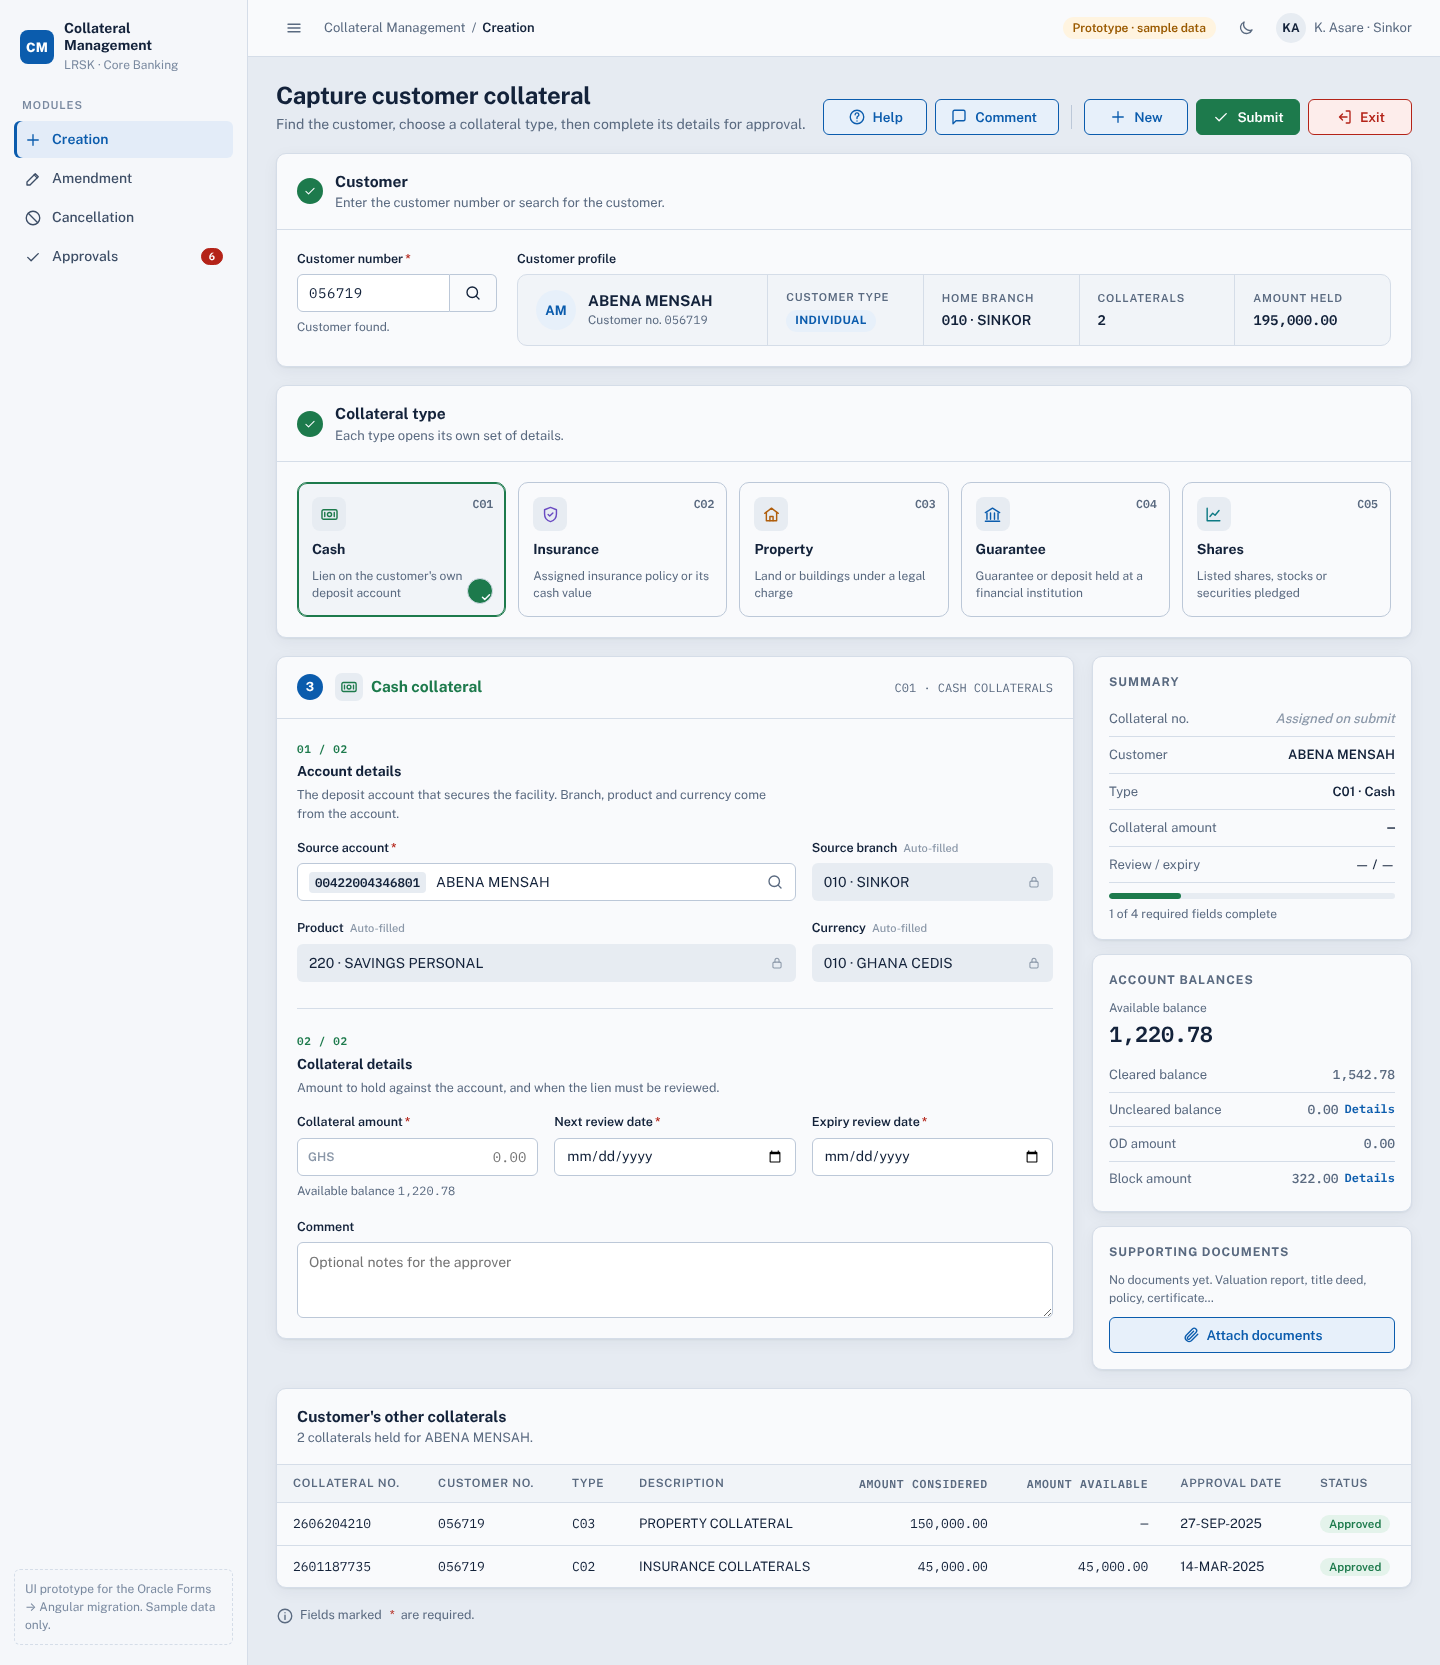
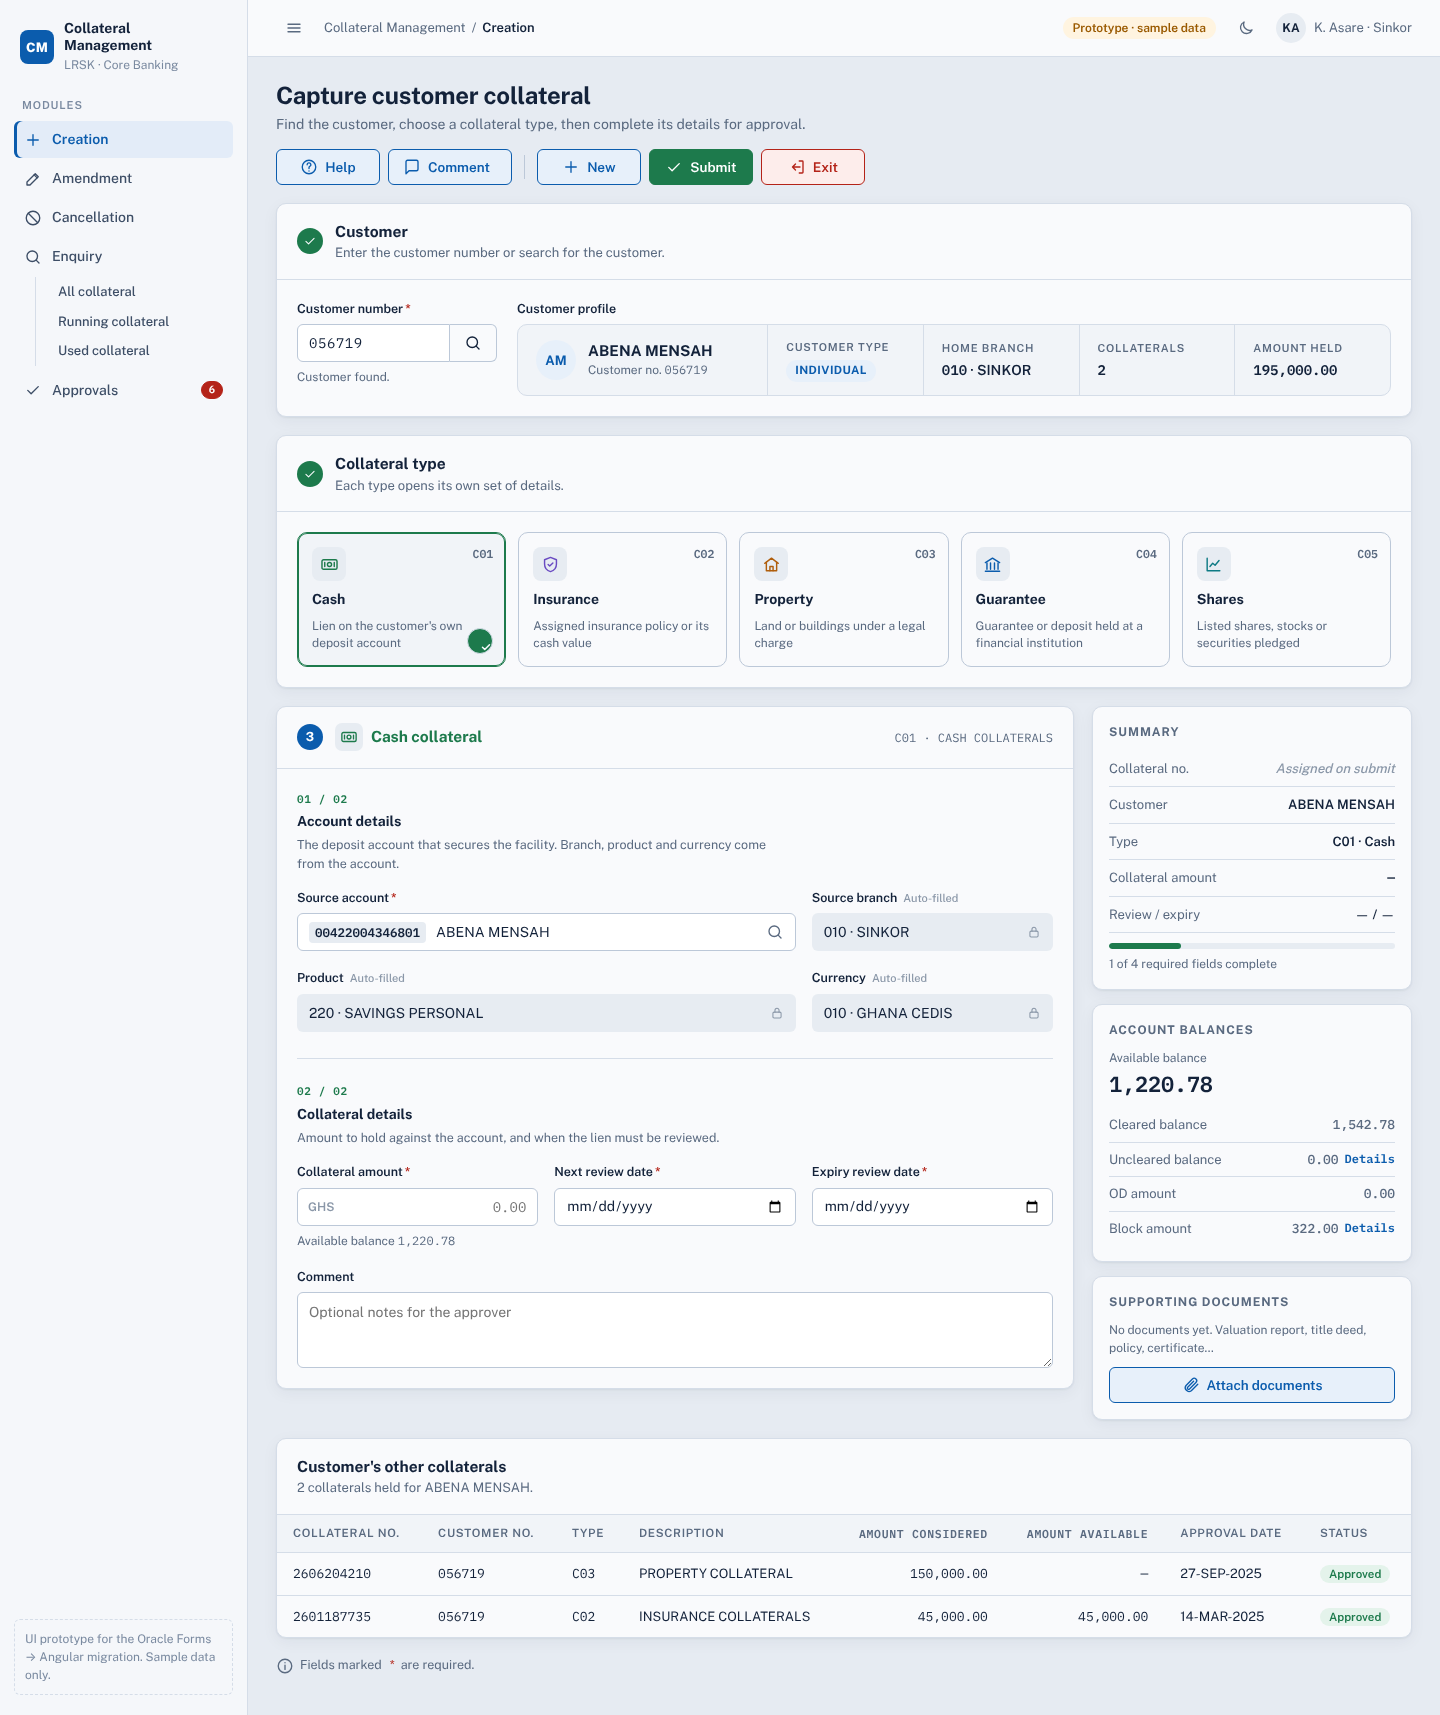
Action bar always left under the title; shorter enquiry search
- Page header stacks title then action bar, left-aligned on every
  screen, so the buttons never move
- Enquiry quick search capped at 360px with a shorter placeholder
- Design system updated; screenshots being retaken

Claude-Session: https://claude.ai/code/session_011ztbXXXbWQFsQty3k2T7VW

diff --git a/design/prototype/index.html b/design/prototype/index.html
@@ -95,7 +95,8 @@ svg.i{width:18px;height:18px;flex:none;stroke:currentColor;fill:none;stroke-widt
 .menu-btn{display:none}
 
 .page{padding:24px 28px 40px;max-width:1240px;width:100%;margin:0 auto;display:flex;flex-direction:column;gap:18px}
-.page-head{display:flex;align-items:flex-end;justify-content:space-between;gap:16px;flex-wrap:wrap}
+/* Title, then the action bar on its own row, always left-aligned so it never moves between screens */
+.page-head{display:flex;flex-direction:column;align-items:flex-start;gap:14px}
 .page-head h1{margin:0;font-size:24px;line-height:1.2;font-weight:700;letter-spacing:-.01em;text-wrap:balance}
 .page-head p{margin:4px 0 0;color:var(--muted)}
 .actions{display:flex;gap:8px;flex-wrap:wrap}
@@ -448,7 +449,7 @@ svg.flip{transform:scaleX(-1)}
 .seg a.on{background:var(--surface);color:var(--fg);box-shadow:var(--shadow)}
 .seg a:hover:not(.on){color:var(--fg)}
 .quick{display:flex;gap:8px;align-items:stretch}
-.quick-in{position:relative;flex:1;min-width:0;max-width:640px}
+.quick-in{position:relative;flex:0 1 360px;min-width:0}
 .quick-in svg{position:absolute;left:12px;top:11px;color:var(--faint)}
 .quick-in .input{padding-left:38px;height:40px}
 .btn.funnel{width:40px;height:40px;position:relative;background:var(--primary);border-color:var(--primary);color:var(--primary-ink)}
@@ -1831,7 +1832,7 @@ function enqListHtml(){
   return `<div class="page-head"><div><h1>${K.title}</h1><p>${K.sub}</p></div>${enqActionBar("list")}</div>
   <div class="seg" role="tablist" aria-label="Enquiry type">${Object.entries(ENQ_KINDS).map(([k,v])=>`<a role="tab" href="${v.hash}" aria-selected="${k===EK}" class="${k===EK?"on":""}">${v.label}</a>`).join("")}</div>
   <section class="card search-card"><div class="card-body">
-    <div class="quick"><div class="quick-in">${icon("search")}<input class="input" id="enQ" placeholder="Search by customer name or number, collateral number, description or status" value="${esc(S_.q)}" aria-label="Search collateral"></div>
+    <div class="quick"><div class="quick-in">${icon("search")}<input class="input" id="enQ" placeholder="Search customer, collateral no., description…" title="Search by customer name or number, collateral number, description or status" value="${esc(S_.q)}" aria-label="Search collateral"></div>
       <button class="btn icon funnel ${S_.open?"on":""}" id="enFunnel" aria-expanded="${S_.open}" aria-controls="enFilters" title="Advanced filters">${icon("funnel")}${chips.length?`<span class="fbadge">${chips.length}</span>`:""}</button></div>
     ${chips.length?`<div class="fchips">${chips.map(([k,t])=>`<span class="fchip"><b>${FILTER_LABELS[k]}:</b> ${esc(t)}<button aria-label="Remove ${FILTER_LABELS[k]} filter" data-unf="${k}">${icon("x")}</button></span>`).join("")}<button class="link-btn" id="enClearAll">Clear all</button></div>`
       :`<p class="hint" style="margin:10px 0 0">Type to search, or use the funnel for advanced filters.</p>`}

diff --git a/docs/design-system.md b/docs/design-system.md
@@ -14,6 +14,8 @@ The visual rules used by the prototype, so the Angular build and later modules (
 
 Every screen uses the same buttons, in the same order and colours. Each screen shows only the buttons it uses, so nothing on the bar is a dead control.
 
+The bar always sits **on the left, directly under the page title**, on every screen (entry, list, details, approval, enquiry), so the buttons are always in the same place.
+
 | Order | Button | Colour | Style |
 |---|---|---|---|
 | 1 | Help | Blue | Tinted (blue border and text) |
@@ -109,7 +111,7 @@ Light mode uses a soft blue-grey page with off-white cards, and a smoke-white si
 
 ### Quick search with funnel (Enquiry)
 
-- One search box (customer name or number, collateral number, description, status) that filters as you type, with a solid blue **funnel** button beside it.
+- One search box, about 360px wide (customer name or number, collateral number, description, status), that filters as you type, with a solid blue **funnel** button beside it.
 - The funnel opens an **Advanced filters** panel inside the same card, laid out on the 12-column grid (three fields per row; ranges as *from – to*). **Fetch** applies and closes it; **Clear filters** empties it.
 - Applied filters appear as chips under the search box, each with its own ×, plus **Clear all**. The funnel shows a red count of active filters.
 
